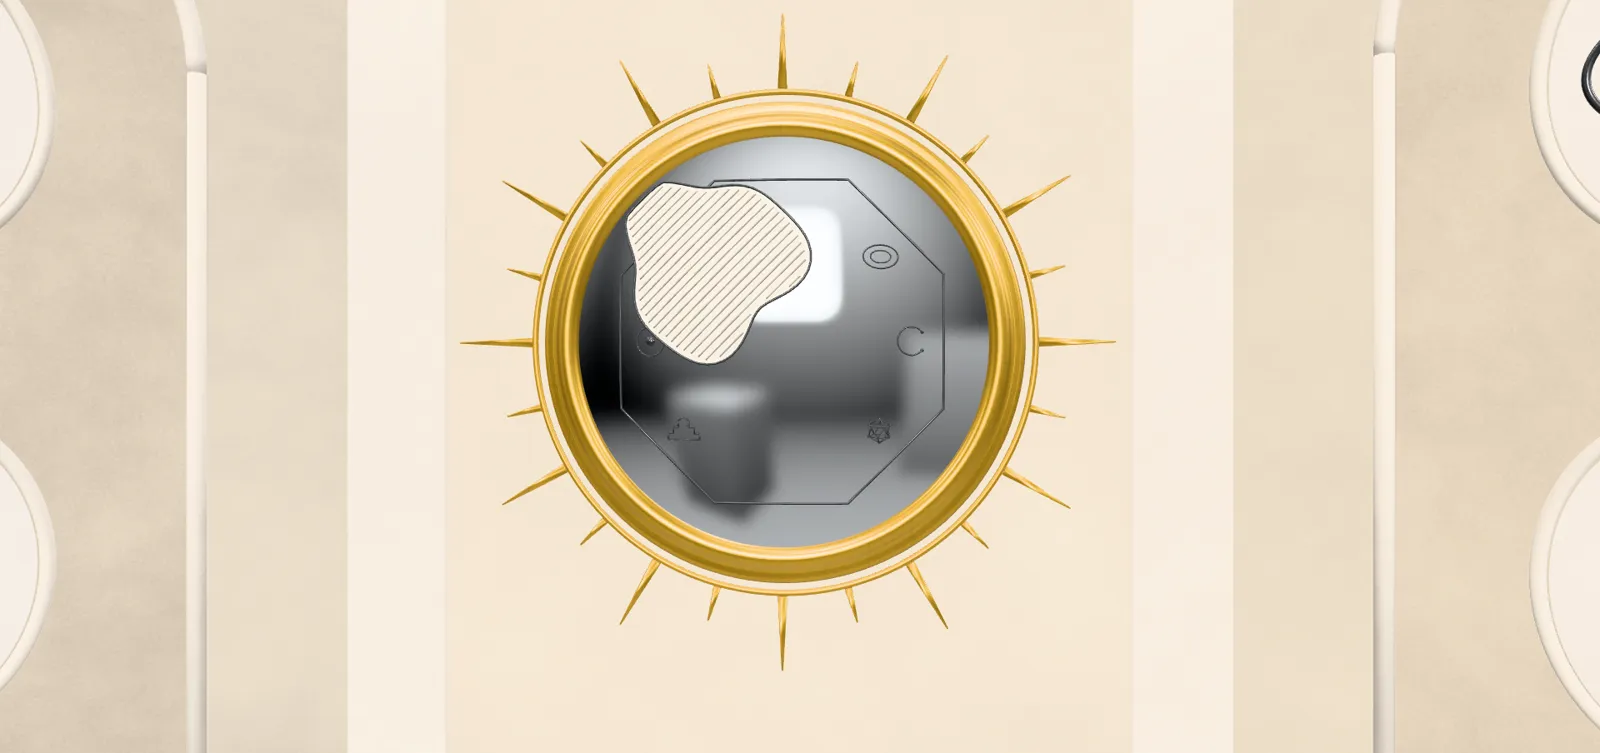
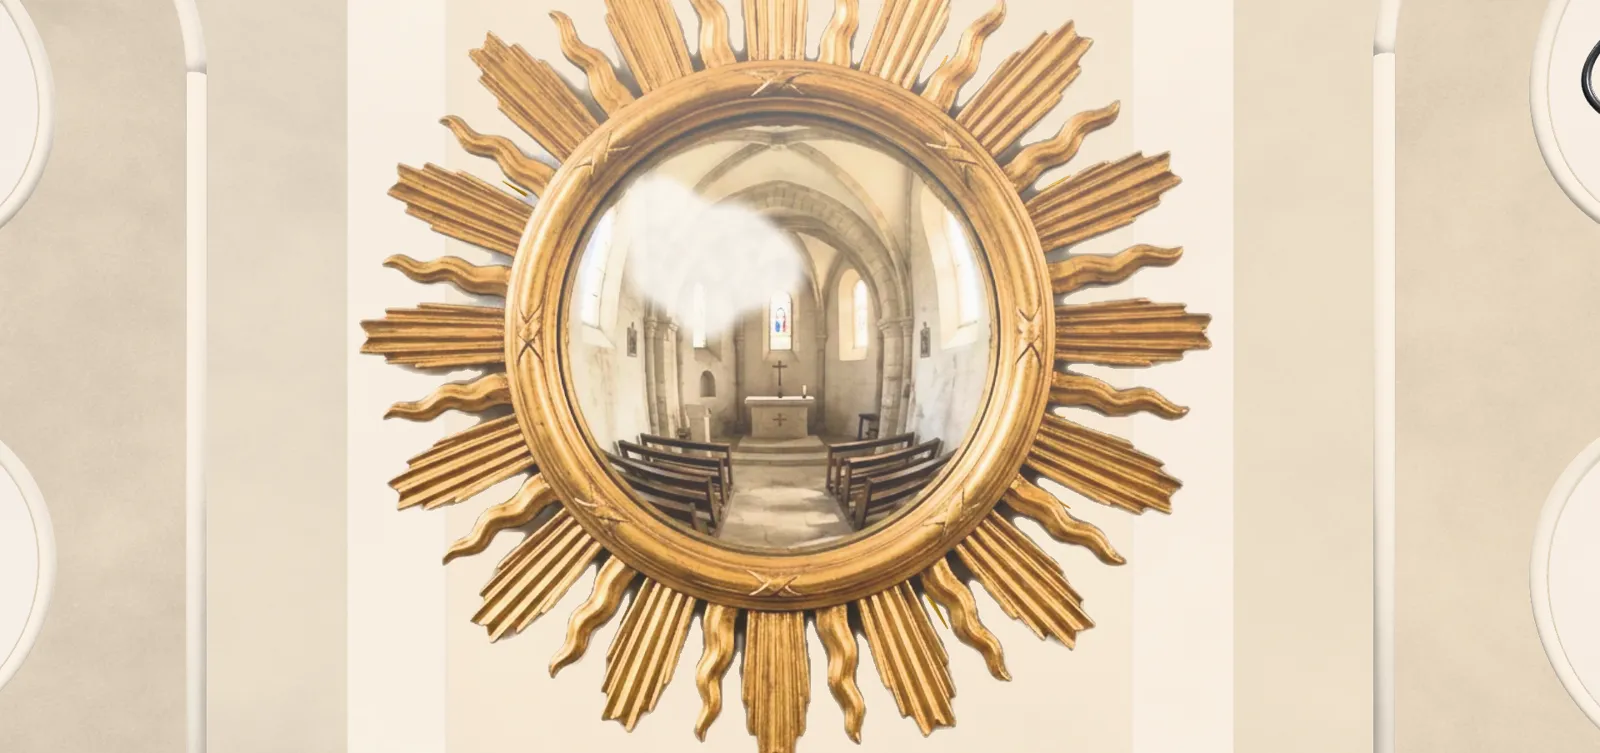
Espejo 3D: el espejo fotográfico sigue en los estados 1-3; la opacidad es un vaho sobre su vidrio

diff --git a/docs/3d/decor.js b/docs/3d/decor.js
@@ -140,7 +140,7 @@ function crear(d, img, scene, nodos, piso) {
   if (d.pos) grupo.position.fromArray(d.pos);
   // apoyadas en el suelo del estudio: la figura se para sobre él; el calco queda tendido sobre él
   if (d.tipo === 'figura' && d.apoyo === 'suelo') grupo.position.y = piso + alto / 2 + (d.elevar || 0);
-  if (d.tipo === 'calco') grupo.position.y = piso + 0.004 + (d.elevar || 0);
+  if (d.tipo === 'calco' && !d.rot) grupo.position.y = piso + 0.004 + (d.elevar || 0);   // con «rot» propio, respeta «pos» (p. ej. un velo sobre un muro)
   const base = grupo.position.clone();
   if ((d.tipo === 'suelo' || d.tipo === 'calco') && !d.rot) grupo.rotation.x = -Math.PI / 2;
   if (d.tipo === 'calco' && d.giro) grupo.rotation.z = d.giro * DEG;

diff --git a/docs/3d/visor.js b/docs/3d/visor.js
@@ -4,7 +4,7 @@ import { GLTFLoader } from 'three/addons/loaders/GLTFLoader.js';
 import { OrbitControls } from 'three/addons/controls/OrbitControls.js';
 import { CSS2DRenderer, CSS2DObject } from 'three/addons/renderers/CSS2DRenderer.js';
 import { prepararRender, montarEstudio, precargarTexturas } from './estudio.js?v=10';
-import { montarDecor, estadoDecor, inmediatoDecor, animarDecor } from './decor.js?v=10';
+import { montarDecor, estadoDecor, inmediatoDecor, animarDecor } from './decor.js?v=11';
 
 const qs = new URLSearchParams(location.search);
 if (qs.get('tema')) document.documentElement.dataset.tema = qs.get('tema');

diff --git a/docs/3d/visor.html b/docs/3d/visor.html
@@ -40,6 +40,6 @@
   <p id="error" class="error" hidden></p>
 </div>
 <script src="../js/iconos.js?v=5"></script>
-<script type="module" src="visor.js?v=10"></script>
+<script type="module" src="visor.js?v=11"></script>
 </body>
 </html>
